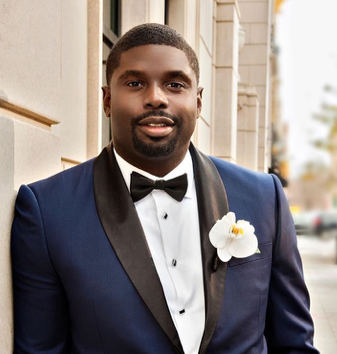
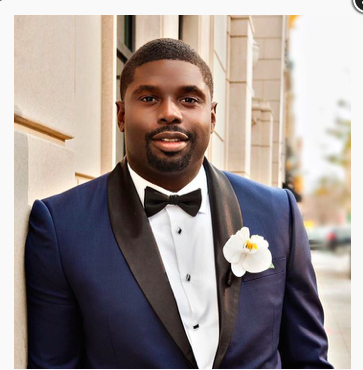
crop pictures

diff --git a/index.html b/index.html
@@ -481,7 +481,7 @@ if (navigator.userAgent.match(/IEMobile\/10\.0/)) {
                     <div class="left_col">
                         <div class="clear">
                         	<div class="image_block">
-                            	<img src="crystalBradImages/EdenKeleta.png" alt="">
+                            	<img src="crystalBradImages/EdenKeleta.jpg" alt="">
                                 <div class="mask_box"></div>
                             </div>
                             <div class="title_box">
@@ -519,7 +519,7 @@ if (navigator.userAgent.match(/IEMobile\/10\.0/)) {
                     <div class="left_col">
                         <div class="clear">
                         	<div class="image_block">
-                            	<img src="crystalBradImages/TaviJohnson.png" alt="">
+                            	<img src="crystalBradImages/TaviJohnson.jpg" alt="">
                                 <div class="mask_box"></div>
                             </div>
                             <div class="title_box">
@@ -538,7 +538,7 @@ if (navigator.userAgent.match(/IEMobile\/10\.0/)) {
                                 <span class="purple_text">Groomsman</span>
                             </div>
                             <div class="image_block">
-                            	<img src="crystalBradImages/no-avatar.jpg" alt="">
+                            	<img src="crystalBradImages/no-avatar.png" alt="">
                                 <div class="mask_box"></div>
                             </div>
                             <div class="title_box hidden">
